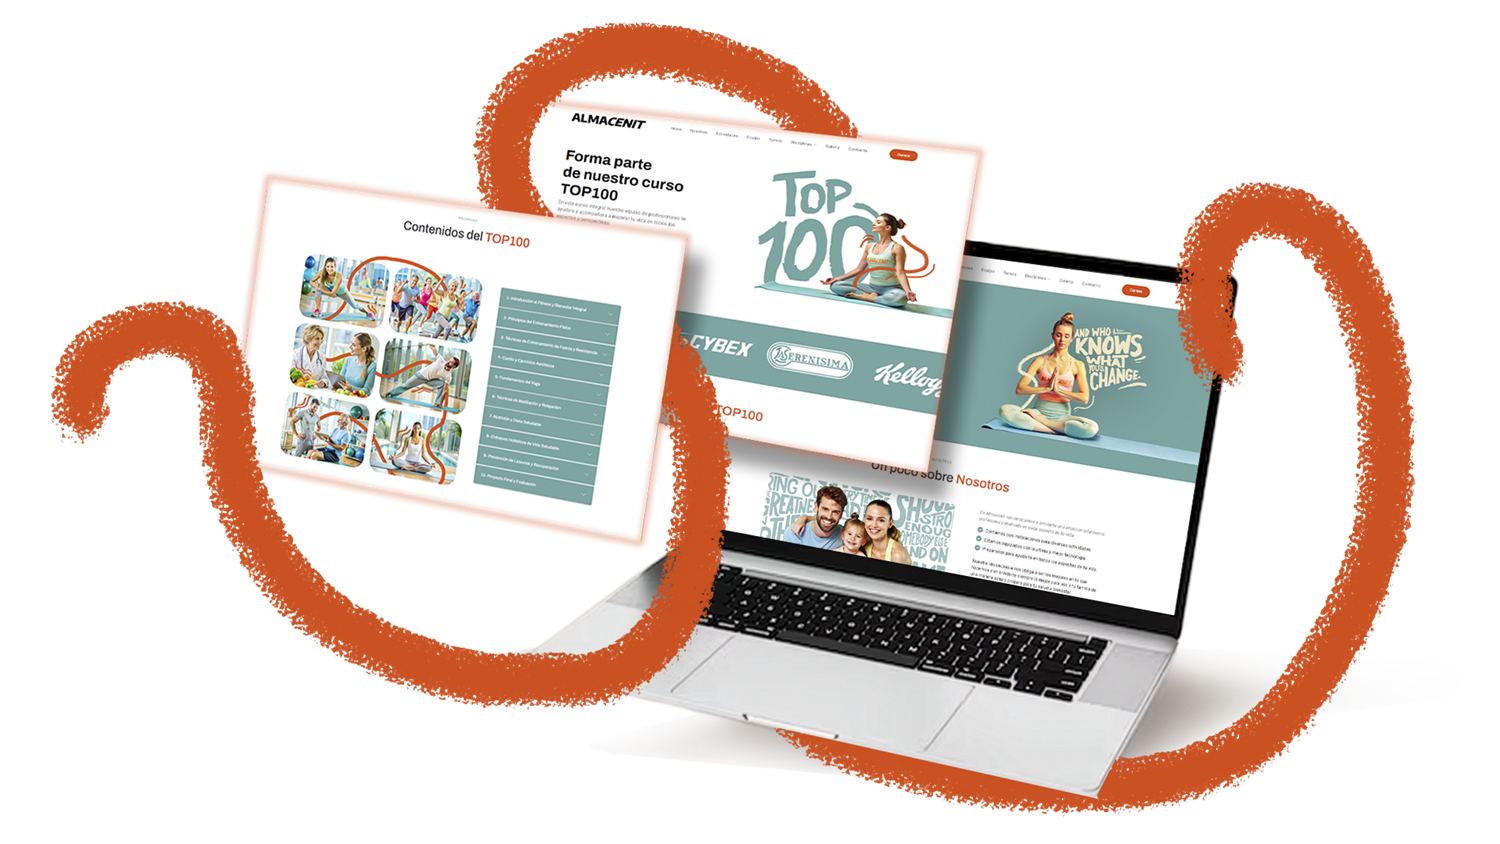
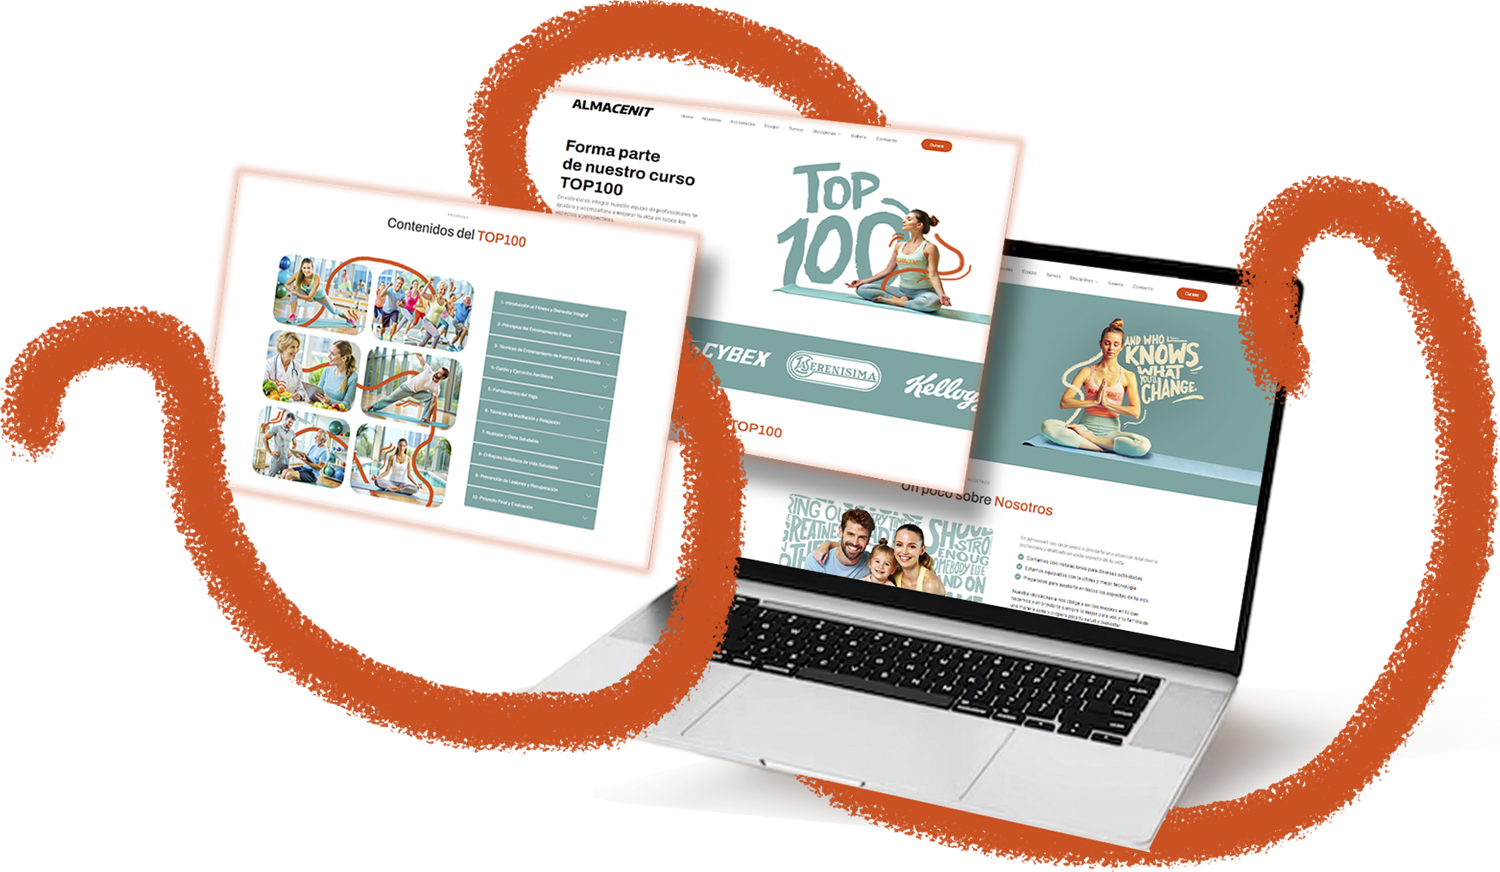
arreglos almacenit 26-8
arreglos

diff --git a/css/styles.css b/css/styles.css
@@ -625,10 +625,14 @@ em { font-style: italic; }
 .fig__frame--contain { padding: clamp(0.75rem, 2vw, 1.75rem); }
 
 /* Pieza con transparencia que va sobre el fondo de la pagina, sin caja
-   detras: el mockup de Almacenit flota, como en la referencia. Solo
-   cuando la imagen ya cargo —hasta entonces el placeholder tiene que
-   verse, si no el hueco queda invisible—. */
+   detras: el mockup de Almacenit flota, como en la referencia. El fondo
+   se apaga solo cuando la imagen ya cargo —hasta entonces el placeholder
+   tiene que verse, si no el hueco queda invisible—. */
 .fig__frame--bare.is-loaded { background: none; }
+/* Sin aire propio: el archivo ya viene recortado a su caja de tinta, asi
+   que el ancho de la columna es el de la pieza. */
+.fig__frame--bare { padding: 0; }
+.fig__frame--bare img { object-fit: contain; }
 
 /* Captura de sitio web completa: la imagen es mucho más alta que el marco
    y se recorre dentro de él, como si fuera la ventana del navegador. */
@@ -1738,6 +1742,19 @@ em { font-style: italic; }
      arrancan arriba, con la primera linea del texto a la altura del
      borde superior de las ilustraciones. */
   .split--figs { grid-template-columns: 1.3fr 0.7fr; }
+
+  /* El mockup de Almacenit va bastante mas grande que un aside normal.
+     Medido sobre la referencia del autor: la pieza ocupa el 56 % del
+     ancho util contra el 43 % del texto, y entre las dos queda una calle
+     de apenas el 0,8 %. Con el gap normal del .split —un 4,4 %— no
+     entraban las dos medidas.
+
+     Esa calle tan angosta se banca porque la pieza trae su propio aire:
+     el trazo naranja deja blanco de sobra contra su borde izquierdo. */
+  .split--mock {
+    grid-template-columns: 43fr 56fr;
+    gap: clamp(0.75rem, 0.8vw, 1rem);
+  }
 
   /* Antes y despues: los dos logos se reparten, en partes iguales, el
      alto que ocupa el texto de al lado.

diff --git a/index.html b/index.html
@@ -43,7 +43,7 @@
 <link href="https://fonts.googleapis.com/css2?family=Inter:wght@400;500;600;700;800&display=swap" rel="stylesheet">
 <!-- El ?v= fuerza al navegador a bajar el CSS nuevo en vez de servir el
      cacheado. Subilo a v=4, v=5... cada vez que cambies estilos. -->
-<link rel="stylesheet" href="css/styles.css?v=58">
+<link rel="stylesheet" href="css/styles.css?v=59">
 </head>
 <body>
 
@@ -1108,7 +1108,7 @@
   </div>
 
   <div class="container">
-    <div class="split">
+    <div class="split split--mock">
       <div class="split__text reveal">
         <p class="project__lead">
           Almacenit es un proyecto de diseño web desarrollado para un trabajo
@@ -1132,8 +1132,8 @@
       <div class="split__aside">
         <!-- El mockup es un png con transparencia y va sin caja detras:
              en la referencia flota sobre el blanco de la pagina. -->
-        <figure class="fig fig--ar reveal" style="--ar: 1.7778">
-          <div class="fig__frame fig__frame--bare fig__frame--contain" data-slot="Mockup">
+        <figure class="fig fig--ar reveal" style="--ar: 1.7202">
+          <div class="fig__frame fig__frame--bare" data-slot="Mockup">
             <img src="assets/images/almacenit/mockup.png" alt="El sitio de Almacenit visto en un portátil y en pantallas de escritorio" loading="lazy" decoding="async">
           </div>
         </figure>
@@ -1522,6 +1522,6 @@
 
 </main>
 
-<script src="javascript/main.js?v=58"></script>
+<script src="javascript/main.js?v=59"></script>
 </body>
 </html>

diff --git a/ESTADO.md b/ESTADO.md
@@ -27,7 +27,7 @@ assets/             102 MB (!) — ver "Problemas conocidos"
 ```
 
 **Cache-busting manual:** el link del CSS y el script llevan `?v=N`.
-**Hay que subir ese número cada vez que se toca CSS o JS.** Va en **v=58**.
+**Hay que subir ese número cada vez que se toca CSS o JS.** Va en **v=59**.
 
 ---
 
@@ -223,6 +223,18 @@ hizo falta retícula nueva—.
   que va sin caja detrás: clase nueva `.fig__frame--bare`, que apaga el
   fondo del marco una vez cargada la imagen. En la referencia flota sobre
   el blanco.
+- **El mockup va grande, y para eso hizo falta una calle angosta.** En la
+  referencia ocupa el 56 % del ancho útil contra el 43 % del texto, y
+  entre los dos queda apenas un 0,8 %. Con el gap normal del `.split`
+  —4,4 %— no entraban las dos medidas, así que hay una variante
+  `.split--mock` (43fr / 56fr con gap de ~10 px). Esa calle tan angosta
+  funciona porque **la pieza trae su propio aire**: el trazo naranja deja
+  blanco de sobra contra su borde izquierdo. Verificado a 1366, 1600 y
+  1920: el párrafo nunca desborda y la imagen nunca pisa al texto.
+- El archivo está **recortado a su caja de tinta** (de 1920x1080 a
+  1748x1016 del original, exportado a 1500x872). Así el ancho de la
+  columna es el de la pieza y no queda margen muerto: a 1366 el mockup
+  pasó de 541 a 692 px, un 37 % más grande.
 - **Por qué las sábanas se veían flacas.** El alto de
   `.fig__frame--scroll` salía de un `aspect-ratio`, y el tope de
   `--media-max-h` se lo recortaba; para conservar la proporción la
